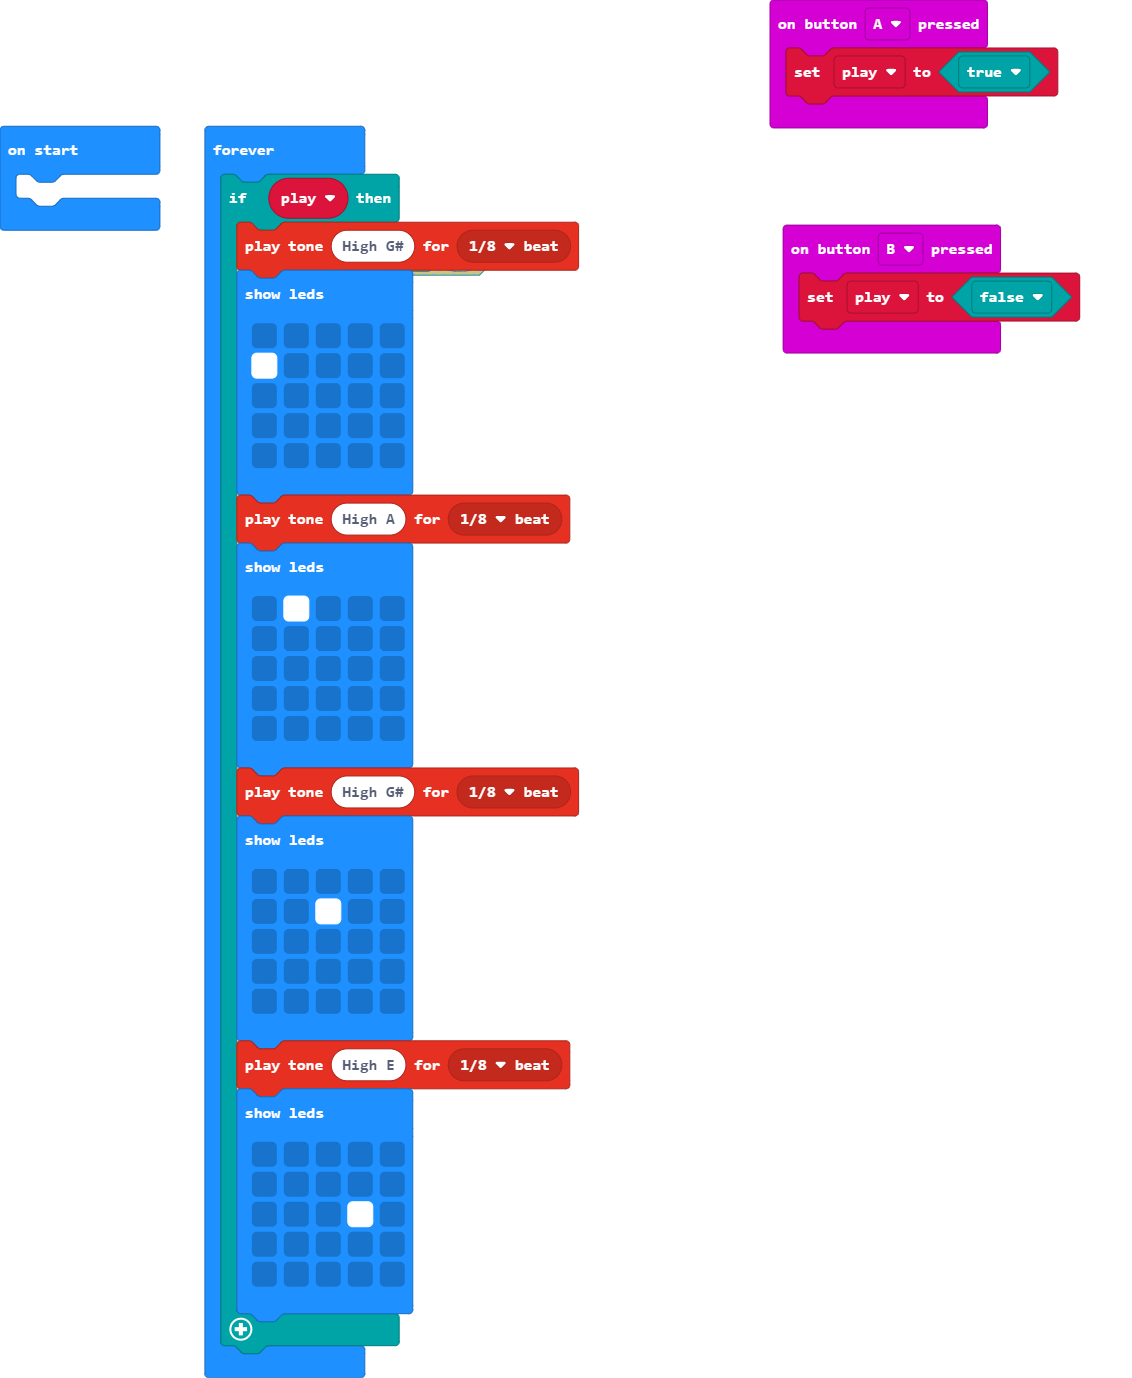
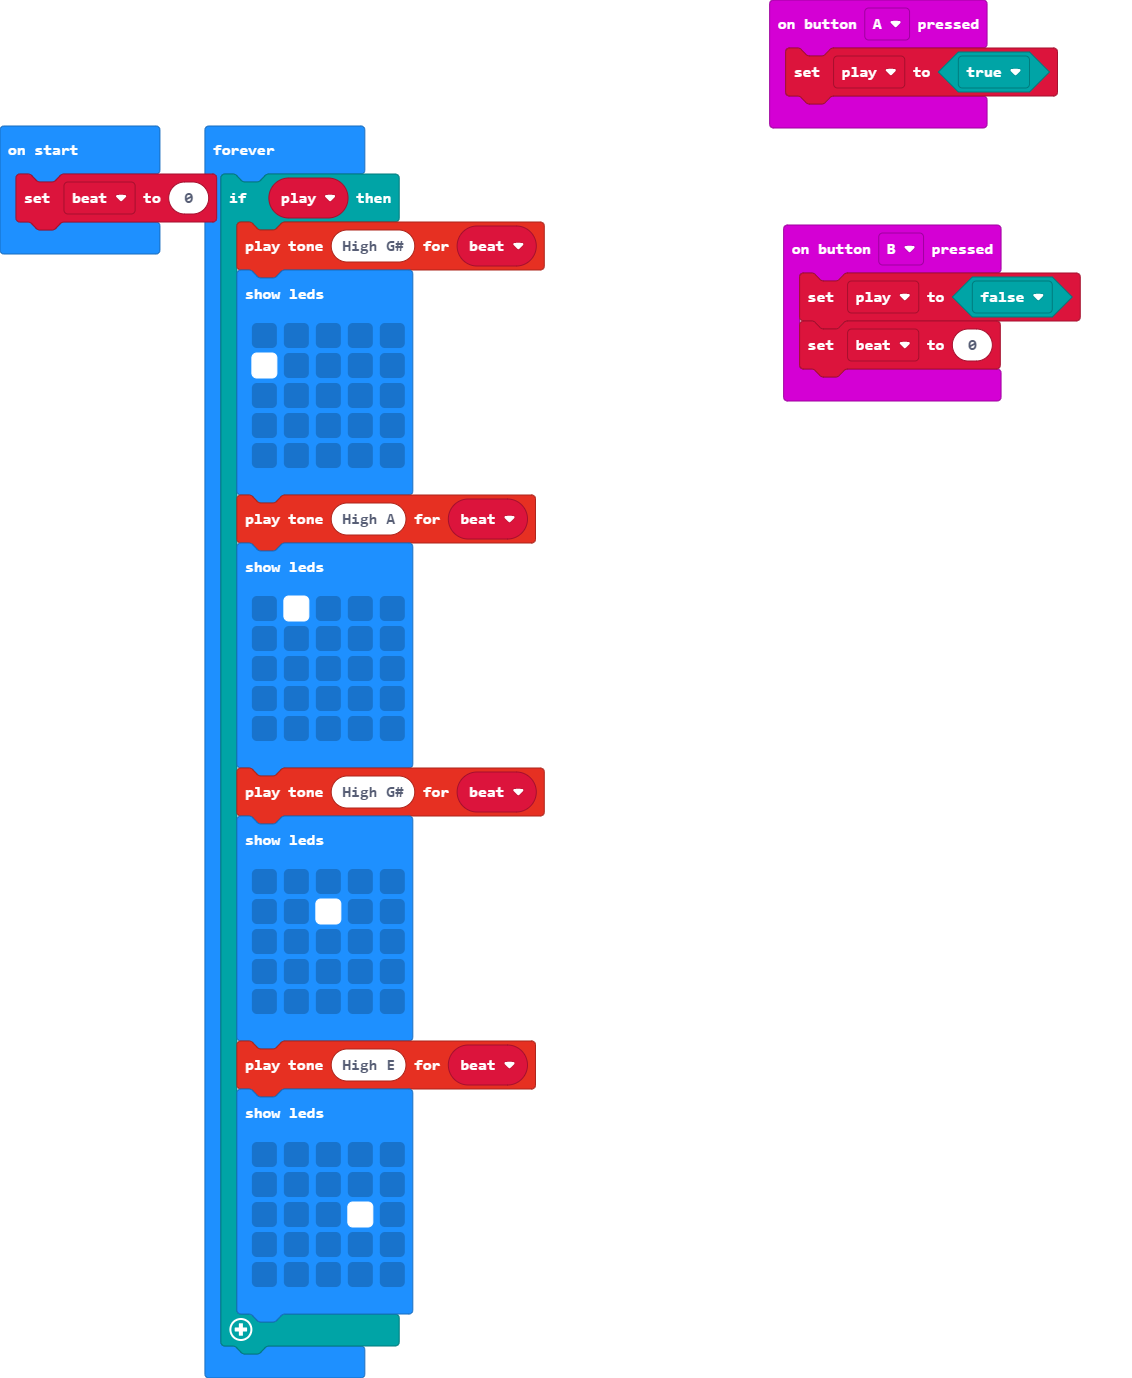
Update pxt.json, main.blocks, main.ts

diff --git a/main.ts b/main.ts
@@ -1,13 +1,16 @@
-let play = false
 input.onButtonPressed(Button.A, function () {
     play = true
 })
 input.onButtonPressed(Button.B, function () {
     play = false
+    beat = 0
 })
+let play = false
+let beat = 0
+beat = 0
 basic.forever(function () {
     if (play) {
-        music.playTone(831, music.beat(BeatFraction.Eighth))
+        music.playTone(831, beat)
         basic.showLeds(`
             . . . . .
             # . . . .
@@ -15,7 +18,7 @@ basic.forever(function () {
             . . . . .
             . . . . .
             `)
-        music.playTone(880, music.beat(BeatFraction.Eighth))
+        music.playTone(880, beat)
         basic.showLeds(`
             . # . . .
             . . . . .
@@ -23,7 +26,7 @@ basic.forever(function () {
             . . . . .
             . . . . .
             `)
-        music.playTone(831, music.beat(BeatFraction.Eighth))
+        music.playTone(831, beat)
         basic.showLeds(`
             . . . . .
             . . # . .
@@ -31,7 +34,7 @@ basic.forever(function () {
             . . . . .
             . . . . .
             `)
-        music.playTone(659, music.beat(BeatFraction.Eighth))
+        music.playTone(659, beat)
         basic.showLeds(`
             . . . . .
             . . . . .
